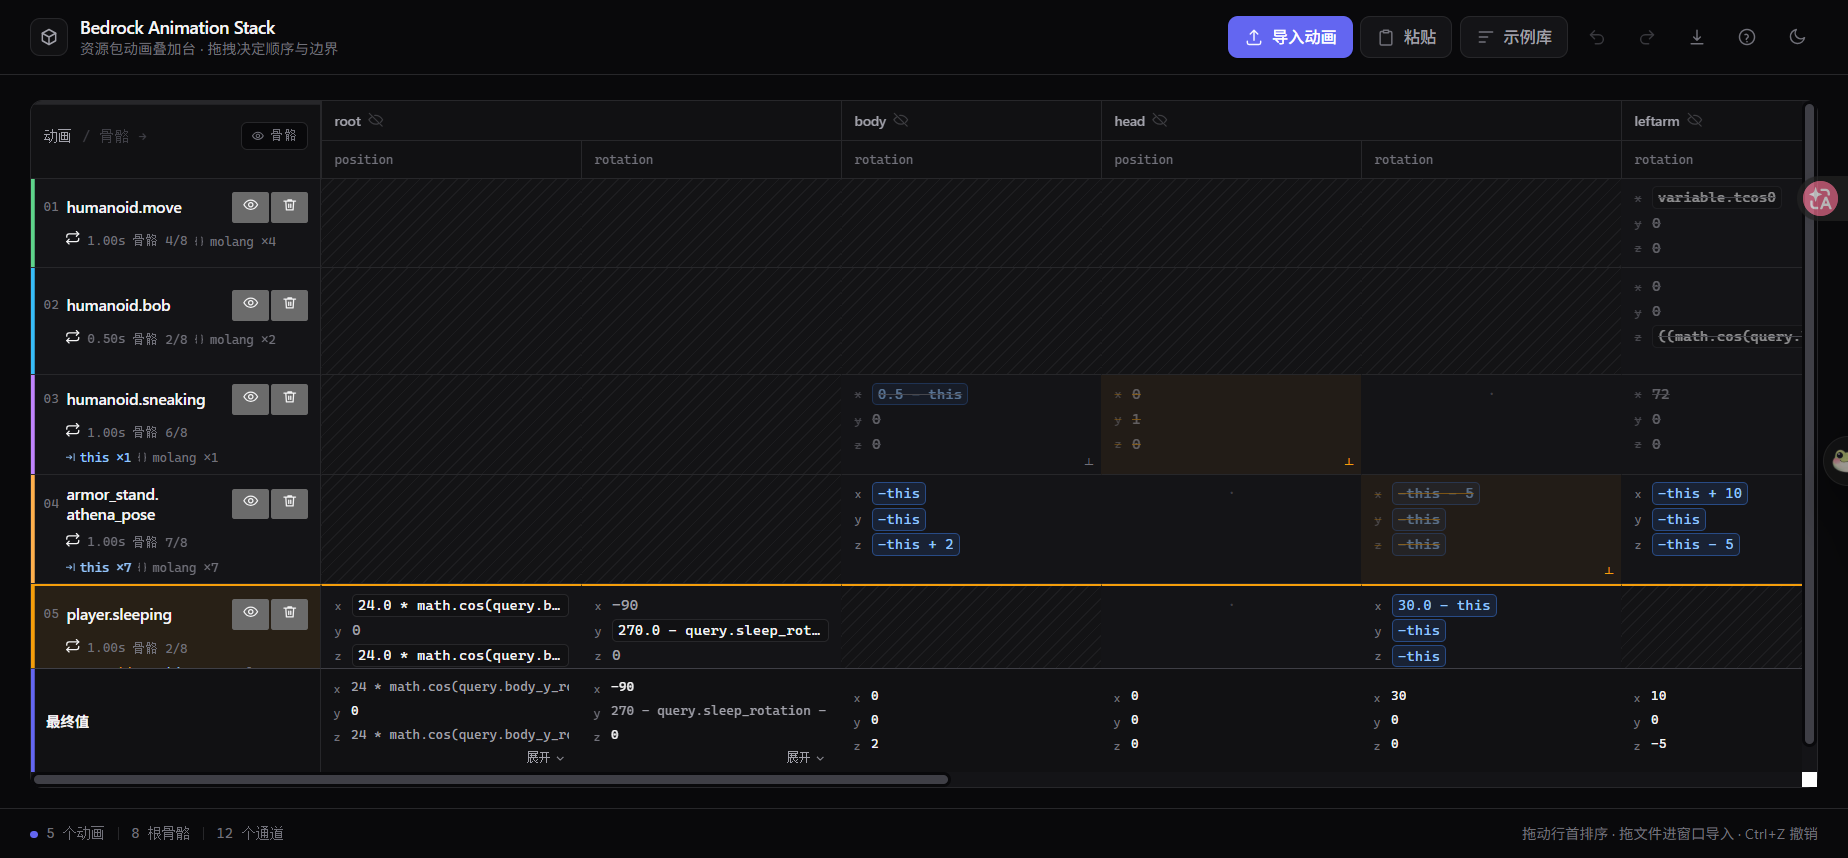
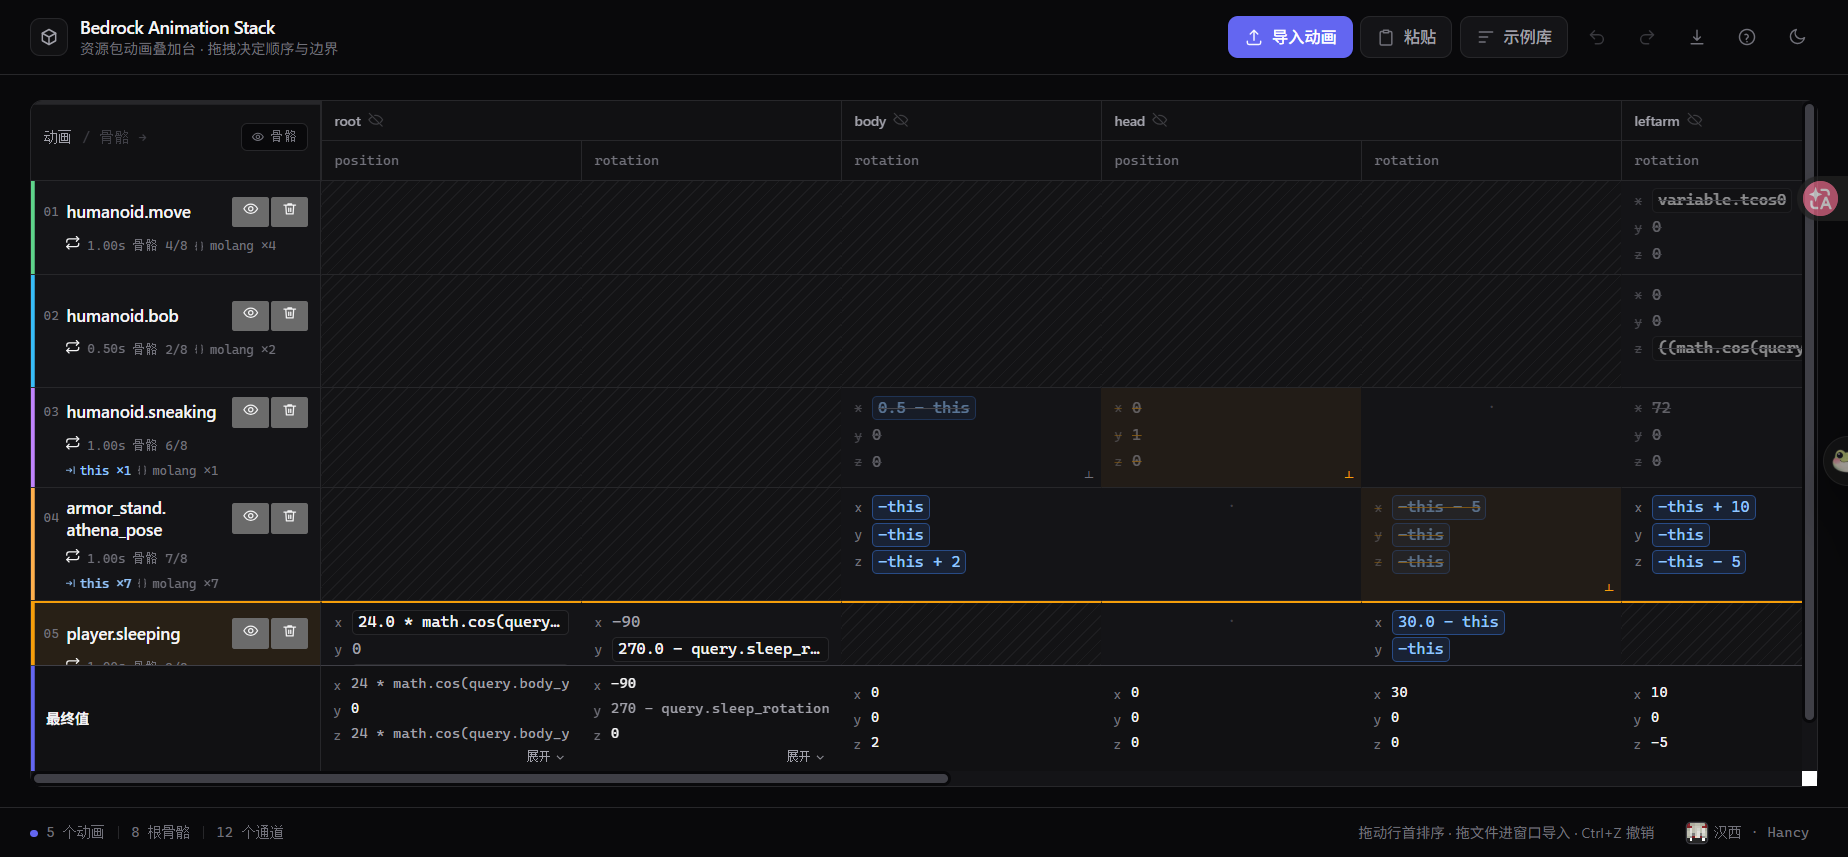
feat: 署名（关于弹窗 + 皮肤头像）并整体上调字号
- 从桌面宠物导入的 skin.png 裁 8x8 正脸 + 帽子层，生成 avatar.png（最近邻放大，pixelated 显示）
- 状态栏右侧加作者按钮（头像 + 汉西 · Hancy），点开「关于这个项目」：汉西 / Hancy / B站 @小汉西 / vibe coding 声明 / © 2026
- 字号上调一档：num 13、expr 12.5、boneh 12.5、chanh 11、key 13.5、sumv 11.5、轴字母 10
- HANDOVER/preview 同步

diff --git a/index.html b/index.html
@@ -617,7 +617,7 @@ button, input, select, textarea { font: inherit; color: inherit; }
 .mtx tbody tr.sumrow .sum-top b { font-weight: 600; color: var(--text); }
 .mtx tbody tr.sumrow .sumv {
   font-family: var(--mono);
-  font-size: 10.5px;
+  font-size: 11.5px;
   line-height: 1.45;
   color: var(--text-2);
   min-width: 0;
@@ -636,7 +636,7 @@ button, input, select, textarea { font: inherit; color: inherit; }
 }
 .vec i {
   font-family: var(--mono);
-  font-size: 9.5px;
+  font-size: 10px;
   font-style: normal;
   color: var(--text-3);
   width: 8px;
@@ -645,7 +645,7 @@ button, input, select, textarea { font: inherit; color: inherit; }
 }
 .num {
   font-family: var(--mono);
-  font-size: 12px;
+  font-size: 13px;
   color: var(--text-2);
   font-variant-numeric: tabular-nums;
 }
@@ -653,7 +653,7 @@ button, input, select, textarea { font: inherit; color: inherit; }
   display: block;
   min-width: 0;
   font-family: var(--mono);
-  font-size: 11.5px;
+  font-size: 12.5px;
   color: var(--text);
   background: var(--bg-2);
   border: 1px solid var(--border);
@@ -765,6 +765,51 @@ body.dragging { cursor: grabbing; user-select: none; }
 /* ============================================================
    Footer
    ============================================================ */
+.statusbar .author {
+  display: inline-flex;
+  align-items: center;
+  gap: 6px;
+  margin-left: 12px;
+  padding: 2px 6px 2px 3px;
+  border: 1px solid transparent;
+  border-radius: 999px;
+  background: none;
+  color: var(--text-3);
+  font-size: 11.5px;
+  cursor: pointer;
+  transition: color var(--t-fast) var(--ease), border-color var(--t-fast) var(--ease), background var(--t-fast) var(--ease);
+}
+.statusbar .author:hover { color: var(--text); border-color: var(--border); background: var(--bg-2); }
+.statusbar .author .avatar {
+  width: 16px;
+  height: 16px;
+  border-radius: 3px;
+  image-rendering: pixelated;
+  box-shadow: 0 0 0 1px var(--border-2);
+}
+/* 关于弹窗 */
+.about { display: flex; align-items: center; gap: 14px; margin-bottom: 16px; }
+.about .face {
+  width: 58px;
+  height: 58px;
+  border-radius: 9px;
+  image-rendering: pixelated;
+  box-shadow: 0 0 0 1px var(--border-2);
+}
+.about .id { display: flex; flex-direction: column; gap: 3px; }
+.about .id b { font-size: 16px; font-weight: 600; color: var(--text); letter-spacing: .01em; }
+.about .id span { font-family: var(--mono); font-size: 12px; color: var(--text-3); }
+.about p { margin: 0 0 10px; font-size: 13px; line-height: 1.8; color: var(--text-2); }
+.about p:last-child { margin-bottom: 0; }
+.about .src { color: var(--text-3); font-size: 12px; }
+.about kbd {
+  font-family: var(--mono);
+  font-size: 11px;
+  padding: 1px 5px;
+  border: 1px solid var(--border-2);
+  border-radius: 4px;
+  color: var(--text-2);
+}
 .statusbar {
   position: fixed;
   left: 0;
@@ -1204,7 +1249,7 @@ textarea:focus { border-color: var(--accent); box-shadow: 0 0 0 3px var(--accent
 }
 .bm-foot button:hover { color: var(--text); border-color: var(--border-2); background: var(--hover); }
 .mtx thead th.boneh {
-  font-size: 11.5px;
+  font-size: 12.5px;
   font-weight: 600;
   letter-spacing: -.005em;
   color: var(--text);
@@ -1218,7 +1263,7 @@ textarea:focus { border-color: var(--accent); box-shadow: 0 0 0 3px var(--accent
 .mtx thead th.chanh {
   width: 208px;
   font-family: var(--mono);
-  font-size: 10px;
+  font-size: 11px;
   color: var(--text-3);
   background: var(--bg-2);
   border-left: 1px solid var(--border);
@@ -1247,7 +1292,7 @@ textarea:focus { border-color: var(--accent); box-shadow: 0 0 0 3px var(--accent
 .mtx tbody th.rowh.off .rh-meta { opacity: .45; }
 .rh-top { display: flex; align-items: center; gap: 6px; }
 .rh-top .key {
-  font-size: 12.5px;
+  font-size: 13.5px;
   font-weight: 600;
   color: var(--text);
   min-width: 0;
@@ -1392,6 +1437,10 @@ html[data-theme="light"] .rh-meta .chip.th { color: #1D4ED8; }
   <span class="sep"></span>
   <span id="stChans">12 个通道</span>
   <span class="r" id="stHint">拖动行首排序 · 拖文件进窗口导入</span>
+  <button class="author" id="btnAbout" type="button" title="关于这个项目 · 汉西 Hancy">
+    <img class="avatar" src="avatar.png" alt="汉西的 Minecraft 皮肤头像" width="16" height="16">
+    <span>汉西 · Hancy</span>
+  </button>
 </footer>
 
 <div class="modal" id="modal" hidden="">
@@ -3382,6 +3431,18 @@ function initExport() {
 }
 
 /* ---------- 说明 ---------- */
+/* ---------- 关于 ---------- */
+function openAbout() {
+  const body = '<div class="about">'
+    + '<img class="face" src="avatar.png" alt="汉西的 Minecraft 皮肤头像" width="58" height="58">'
+    + '<div class="id"><b>汉西</b><span>Hancy · B 站 @小汉西</span></div>'
+    + '</div>'
+    + '<p>这个网站是一个 <b>vibe coding</b> 项目：由汉西发起并主导，借助 AI 一起完成 —— 想法、取舍、每一条交互都由他定，代码是一边聊一边改出来的。'
+    + '上面这张脸就是他自己的 Minecraft 皮肤，从桌宠里导出的那一张。</p>'
+    + '<p class="src">动画示例逐字取自 <code>bedrock-samples v1.26.50.4</code>，未做改写。</p>';
+  openModal('关于这个项目', body, '<span class="src">© 2026 汉西 Hancy</span><button class="btn" data-close="1">关闭</button>');
+}
+
 function initDocs() {
   const openDocs = () => {
     const docs = [
@@ -3406,6 +3467,8 @@ function initDocs() {
       '<div class="doc-card"><h4>' + ic(d[0]) + d[1] + '</h4><p>' + d[2] + '</p></div>').join('') + '</div>');
   };
   $('#btnDocs').addEventListener('click', openDocs);
+  const about = $('#btnAbout');
+  if (about) about.addEventListener('click', openAbout);
 }
 
 /* ---------- boot ---------- */
